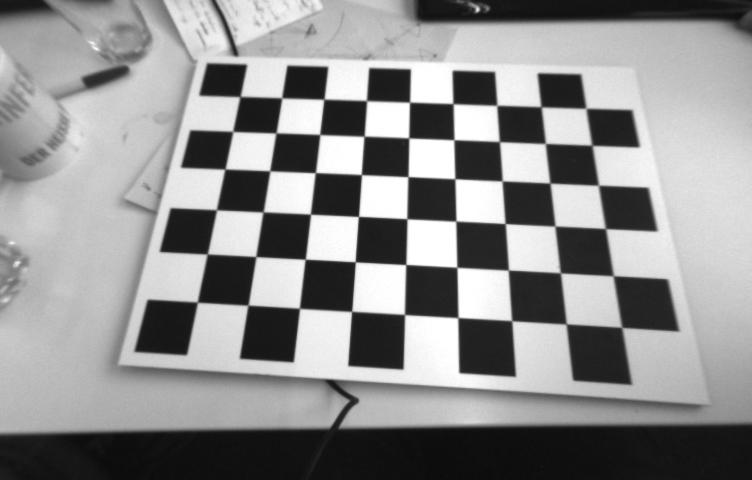
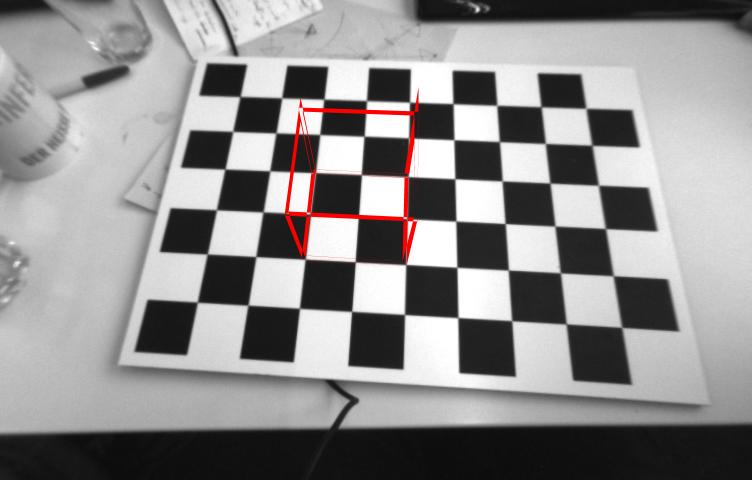
drawing cube on image plane works, but shitty

Changed region(s): [[0.367, 0.1875, 0.5811, 0.5625]]

diff --git a/exercise01/undistort_and_superimpose_cube.m b/exercise01/undistort_and_superimpose_cube.m
@@ -13,7 +13,7 @@ fprintf(['Starting to undistort images and superimpose a cube on ', ...
 
 for i = 1:param.n_frames
     % print status message
-    fprintf(['\tUndistort image ',num2str(i),' of ',num2str(param.n_frames),'\n'])
+    fprintf(['\tPreparing image ',num2str(i),' of ',num2str(param.n_frames),'\n'])
     
     % load image
     eval(['img_d = rgb2gray(imread(''data/images/img_',num2str(i,'%04.0f'),'.jpg''));'])
@@ -32,12 +32,16 @@ for i = 1:param.n_frames
     Pp = projectPoints(Pw, data.K, RT);
 
     % connect points to a cube
-    [x_vec, y_vec] = helper_CubeLineCoordinates(Pp);
-
+    [~, ~, z_vec] = helper_CubeLineCoordinates(Pp);
+        
+    % draw cube on image
+    % img_u = insertShape(img_u,'Line',[0 0 100 100],'LineWidth',3,'Color','red');
+    img_u = insertShape(img_u,'Line',z_vec','LineWidth',4,'Color','red');
+    
     % plot
     figure(i); clf; hold on;
         imshow(img_u,'InitialMagnification','fit');
-        line(x_vec,y_vec,'LineWidth',3,'Color','r')
+        % line(x_vec,y_vec,'LineWidth',3,'Color','r')
 
     % save image
     eval(['imwrite(img_u,''data/images_undistorted/img_',num2str(2,'%04.0f'),'.jpg'');']);

diff --git a/exercise01/helper_CubeLineCoordinates.m b/exercise01/helper_CubeLineCoordinates.m
@@ -1,4 +1,4 @@
-function [x_vec, y_vec] = helper_CubeLineCoordinates(Pp)
+function [x_vec, y_vec, z_vec] = helper_CubeLineCoordinates(Pp)
 % [x_vec, y_vec] = helper_CubeLineCoordinates(Pp);
 % combines points of cube to draw it
 % Input:
@@ -18,4 +18,15 @@ y_vec = [Pp(1,2),Pp(2,2),Pp(4,2),Pp(3,2),Pp(1,2), ...
          Pp(5,2),Pp(6,2),Pp(8,2),Pp(7,2),Pp(5,2), Pp(1,2)...
          Pp(2,2),Pp(6,2),Pp(8,2),Pp(4,2),Pp(3,2), Pp(7,2)];
      
+     
+ % rearange and round
+ N = length(x_vec);
+ z_vec = zeros(2*N,1);
+ 
+for i = 1:N
+   z_vec(2*i-1) = round(x_vec(i));
+   z_vec(2*i) = round(y_vec(i));
+end
+ 
+ 
 end
